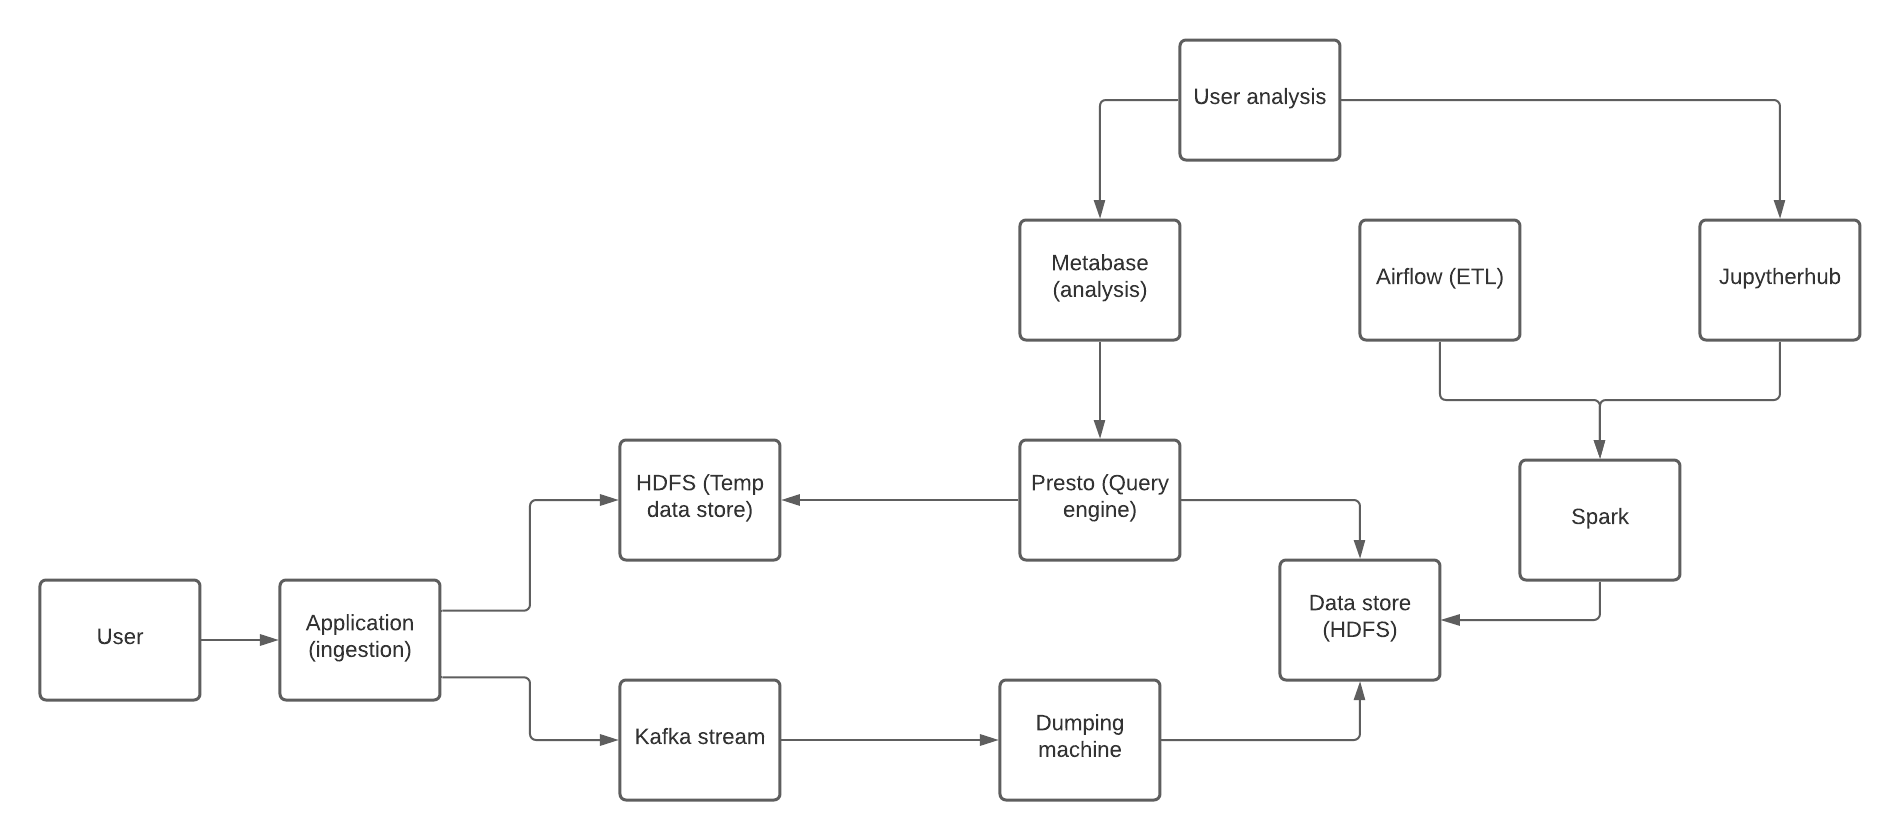
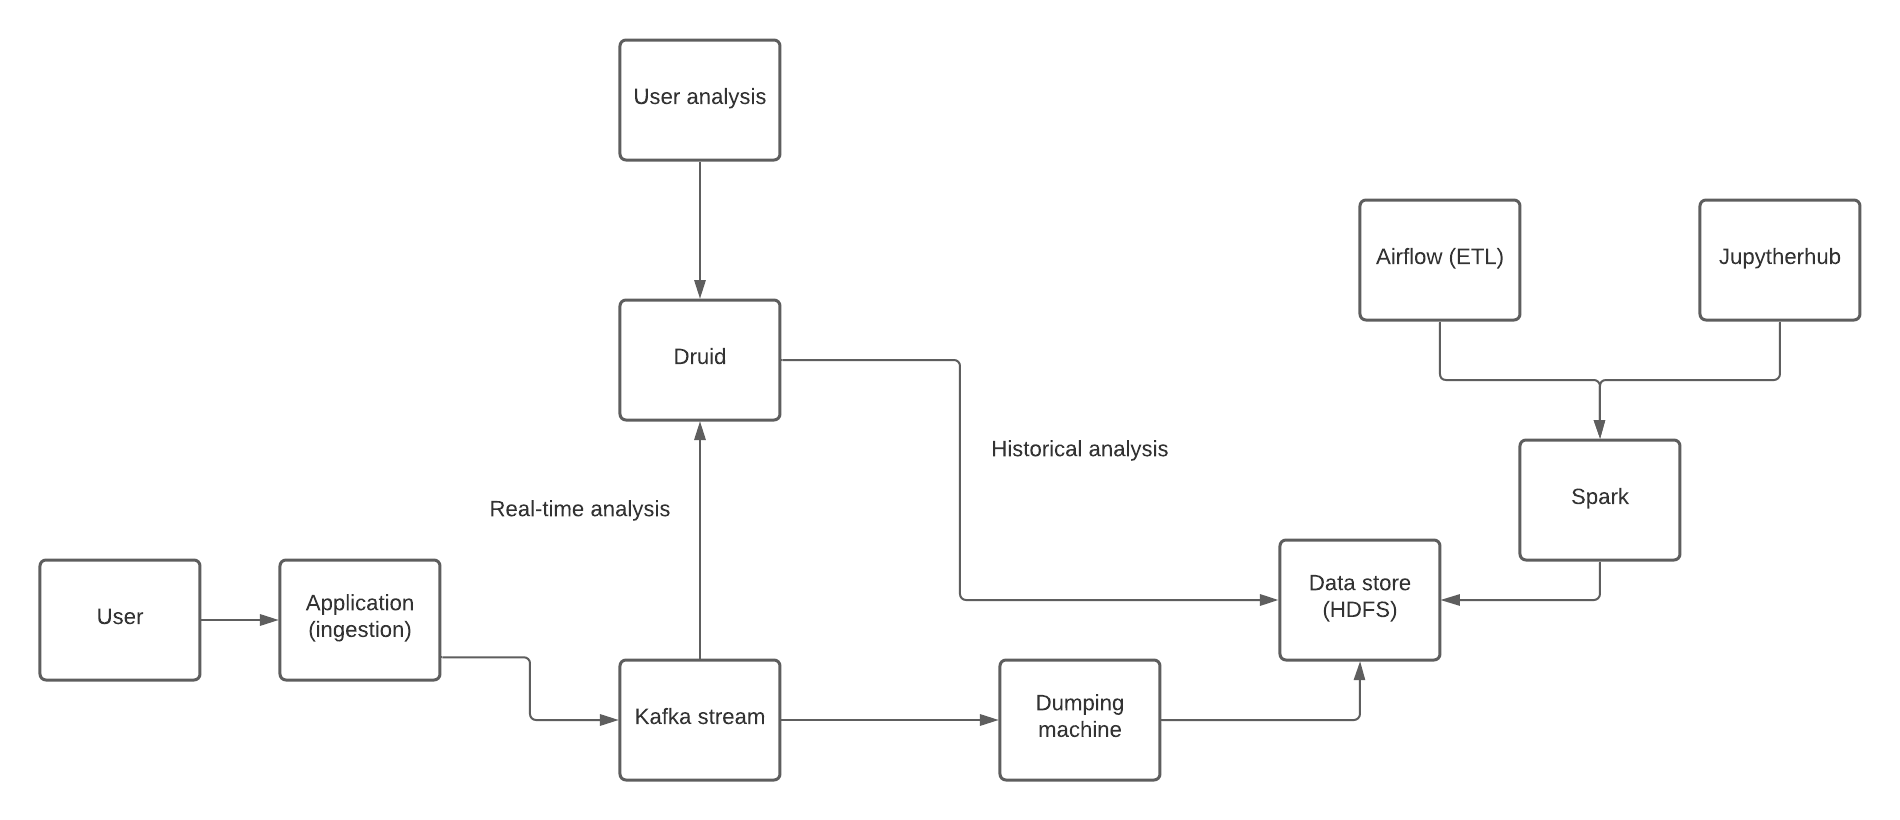
Architecture v2 (#2)
* add architecture v2 and fix technologies

* move architecture to top

diff --git a/README.md b/README.md
@@ -24,19 +24,11 @@
 
 Criar uma plataforma de dados com tecnologias preferencialmente open-source. Objetivo final é criar uma plataforma clickstream para análise de dados em tempo real para produtos de dados.
 
+## Arquitetura
+
+![Initial archtecture](./doc/images/architecture.png)
+
 ## Tecnologias
-
-### Apache HBase
-
-Data store não relacional, distribuído, orientado à coluna baseado na arquitetura BigTable da Google.
-
-### Apache Presto / Trino
-
-Ferramenta Query Engine para consulta em diferentes fontes de dados em uma única query.
-
-### Apache Alluxio
-
-Ferramenta para cacheamento de dados (redução significativa de custos).
 
 ### Apache Spark
 
@@ -54,6 +46,10 @@ Ferramenta para stream de dados com alta disponibilidade, distribuído, tolerant
 
 Formato colunar de armazenamento de dados.
 
-## Arquitetura
+### Apache Druid
 
-![Initial archtecture](./doc/images/architecture.png)
+Ferramenta para análises em tempo real e histórica.
+
+### HDFS
+
+Sistema de arquivos distribuído para volumes massivos de dados.
